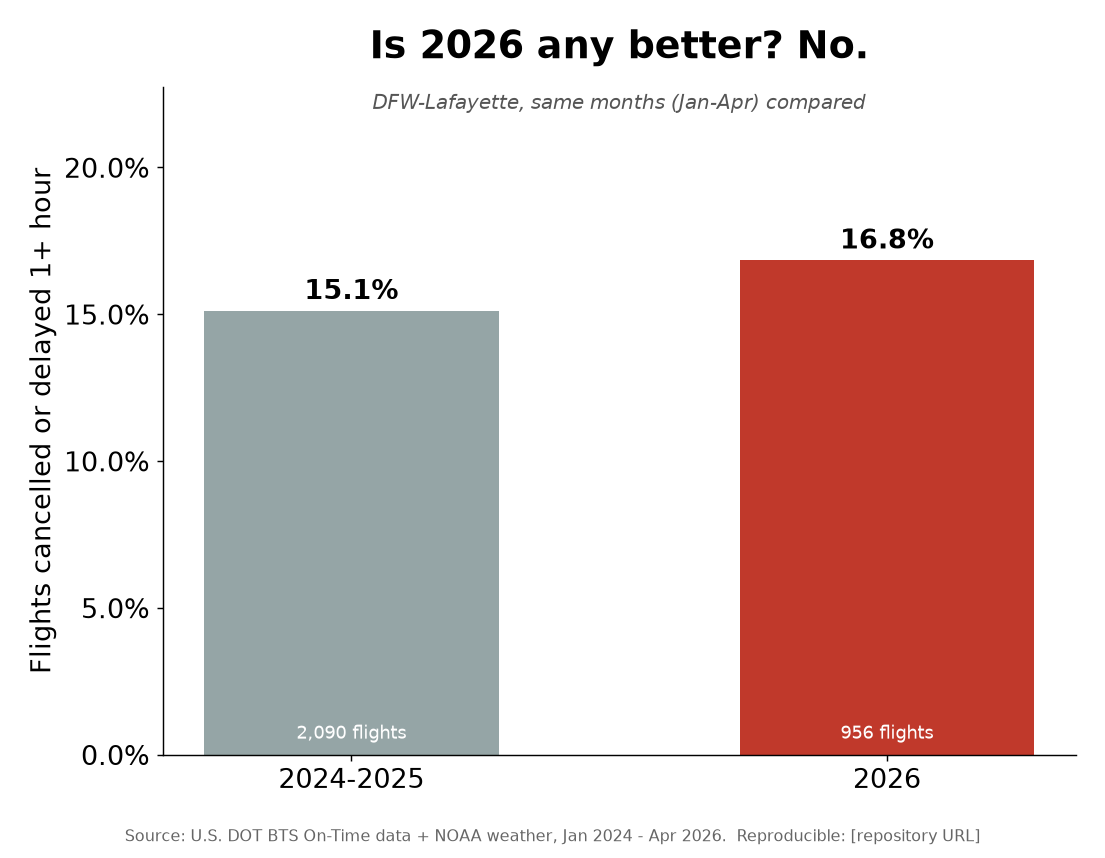
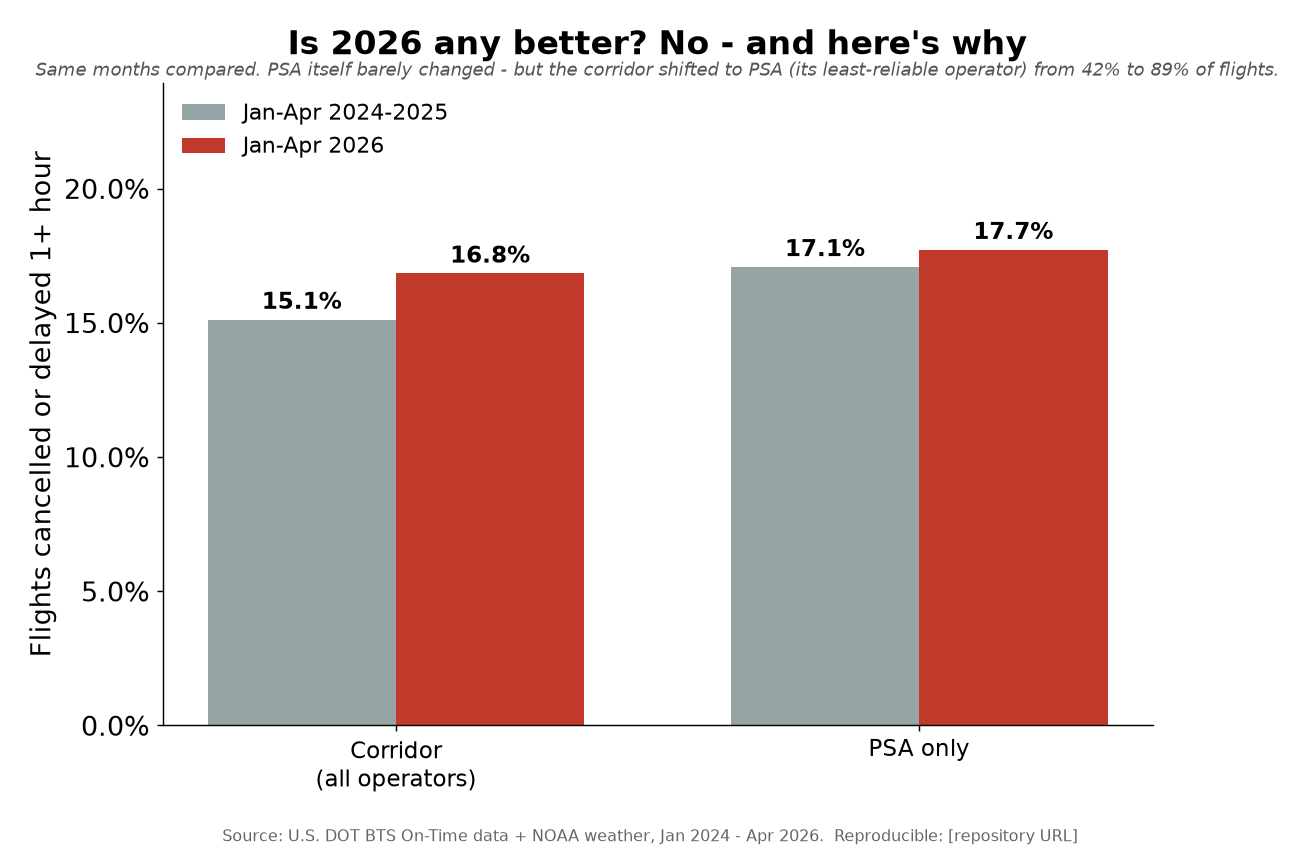
Fix A1 conflation; add A1b weather-sensitivity; clarify A3 operator mix
Review caught A1 conflating two different facts (annotation claimed Envoy
"degrades most" while bars showed PSA highest in bad weather). Resolved:

- A1: now absolute only - "PSA is the least reliable in any weather" (matches the
  bars; PSA highest in every weather bucket). Contradictory annotation removed.
- A1b (new): weather-sensitivity dumbbell - good->bad endpoints plus each
  operator's own multiplier (Envoy x4.3, SkyWest x3.3, PSA x2.5). Shows both
  facts honestly: PSA worst in absolute terms; Envoy swings most from a low base.
- A3: now Corridor vs PSA-only, season-matched. PSA itself ~flat (17.1->17.7%);
  corridor worsened (15.1->16.8%) mainly because it shifted to PSA from 42% to
  89% of flights. Attributes the change to operator mix, not a single decline.

Focal report 2026 section and chart specs/guide updated to match.

Changed region(s): [[0.0, 0.0303, 0.9846, 0.9394], [0.1231, 0.9697, 0.8923, 1.0]]

diff --git a/flight-fragility-poc/scripts/45_plot_exec_storyline.py b/flight-fragility-poc/scripts/45_plot_exec_storyline.py
@@ -83,16 +83,56 @@ def chart_A1():
     ax.set_xticks(x); ax.set_xticklabels([WX_LABEL[b] for b in wx])
     ax.yaxis.set_major_formatter(PercentFormatter(1.0))
     ax.set_ylabel("Flights cancelled or delayed 1+ hour")
-    ax.set_title("When the weather turns, the DFW-Lafayette schedule breaks", pad=16, fontsize=18)
+    ax.set_title("On DFW-Lafayette, PSA is the least reliable in any weather", pad=16, fontsize=18)
     ax.legend(loc="upper left", frameon=False, fontsize=12)
     ax.set_ylim(0, max(0.45, ax.get_ylim()[1]))
-    ax.annotate("Envoy degrades most\nin bad weather (~4x)", xy=(2.0,0.30), xytext=(1.05,0.40),
-                fontsize=11, color=C_ENVOY, ha="center",
-                arrowprops=dict(arrowstyle="->",color=C_ENVOY))
-    ax.text(0.99,0.97,"DFW-Lafayette, 2024-2025", transform=ax.transAxes, ha="right", va="top",
-            fontsize=11, style="italic", color="#555")
+    ax.text(0.5,1.005,"Share of flights cancelled or delayed 1+ hour, by weather condition (2024-2025).  "
+            "Bad weather makes every operator 2-4x worse.",
+            transform=ax.transAxes, ha="center", va="bottom", fontsize=10.5, style="italic", color="#555")
     footer(fig); fig.tight_layout(rect=[0,0.04,1,1])
     fig.savefig(OUT/"A1_weather_breaks_schedule.png"); plt.close(fig)
+
+
+def chart_A1b():
+    """Weather sensitivity, shown honestly: absolute good->bad endpoints (dumbbell)
+    plus each operator's own multiplier. Resolves the A1 confusion: PSA is worst in
+    absolute terms in any weather; Envoy's relative swing is largest only because its
+    good-weather baseline is the lowest."""
+    df = con.sql(f"""
+      WITH t AS (SELECT operator_class, weather_bucket, {disruption_expr()} r
+        FROM read_parquet('{CARVE}', hive_partitioning=1)
+        WHERE hub_family='DFW' AND (origin='LFT' OR dest='LFT') AND period_flag='baseline'
+          AND weather_bucket IN ('benign','adverse')
+          AND operator_class IN ('PSA_operated','Envoy_operated','SkyWest_unresolved') GROUP BY 1,2)
+      SELECT operator_class,
+        max(CASE WHEN weather_bucket='benign' THEN r END) good,
+        max(CASE WHEN weather_bucket='adverse' THEN r END) bad
+      FROM t GROUP BY 1
+    """).df()
+    df["mult"]=df["bad"]/df["good"]
+    df=df.sort_values("mult", ascending=True).reset_index(drop=True)  # bottom-up; biggest swing on top
+    fig, ax = plt.subplots(figsize=(12,6.2))
+    import numpy as np
+    for i,row in df.iterrows():
+        ax.plot([row.good,row.bad],[i,i], color="#BBB", lw=4, zorder=1)
+        ax.scatter([row.good],[i], s=240, color=C_FLT, zorder=2, edgecolor="white")
+        ax.scatter([row.bad],[i], s=240, color=C_BAD, zorder=2, edgecolor="white")
+        ax.text(row.good-0.012, i, f"{row.good*100:.0f}%", va="center", ha="right", fontsize=12, color="#555")
+        ax.text(row.bad+0.012, i, f"{row.bad*100:.0f}%", va="center", ha="left", fontsize=12, fontweight="bold", color=C_BAD)
+        ax.text(0.445, i, f"x{row.mult:.1f}", va="center", ha="left", fontsize=13, fontweight="bold", color="#333")
+    ax.set_yticks(range(len(df))); ax.set_yticklabels([OP_LABEL[o].replace("\n"," ") for o in df.operator_class], fontsize=13)
+    ax.set_xlim(0,0.50); ax.set_ylim(-0.6,len(df)-0.4)
+    ax.xaxis.set_major_formatter(PercentFormatter(1.0))
+    ax.set_xlabel("Flights cancelled or delayed 1+ hour")
+    ax.set_title("Weather hits every operator hard - Envoy's reliability swings the most", pad=22, fontsize=17)
+    # legend dots
+    ax.scatter([],[],s=180,color=C_FLT,label="Good weather"); ax.scatter([],[],s=180,color=C_BAD,label="Bad weather")
+    ax.legend(loc="lower right", frameon=False, fontsize=12)
+    ax.text(0.5,1.012,"Dots = absolute rates.  \"x\" = bad-weather rate / the same operator's good-weather rate "
+            "(PSA worst in any weather; Envoy swings most from a low base).",
+            transform=ax.transAxes, ha="center", va="bottom", fontsize=9.5, style="italic", color="#555")
+    footer(fig); fig.tight_layout(rect=[0,0.04,1,1])
+    fig.savefig(OUT/"A1b_weather_sensitivity.png"); plt.close(fig)
 
 
 def chart_A2():
@@ -124,27 +164,32 @@ def chart_A2():
 
 
 def chart_A3():
-    df = con.sql(f"""
-      SELECT CASE WHEN year(flight_date)=2026 THEN '2026' ELSE '2024-2025' END season,
-             {disruption_expr()} rate, count(*) n
-      FROM read_parquet('{CARVE}', hive_partitioning=1)
-      WHERE hub_family='DFW' AND (origin='LFT' OR dest='LFT')
-        AND month(flight_date) BETWEEN 1 AND 4
-      GROUP BY 1
-    """).df().set_index("season")
-    order=["2024-2025","2026"]
-    vals=[float(df.loc[s,"rate"]) for s in order]; ns=[int(df.loc[s,"n"]) for s in order]
-    fig, ax = plt.subplots(figsize=(8.5,6.6))
-    bars=ax.bar(order, vals, color=[C_PRIOR,C_NOW], width=0.55)
-    for b,v,nn in zip(bars,vals,ns):
-        ax.text(b.get_x()+b.get_width()/2, v+0.004, f"{v*100:.1f}%", ha="center", fontsize=15, fontweight="bold")
-        ax.text(b.get_x()+b.get_width()/2, 0.004, f"{nn:,} flights", ha="center", fontsize=10, color="white", va="bottom")
+    base=f"""FROM read_parquet('{CARVE}', hive_partitioning=1)
+      WHERE hub_family='DFW' AND (origin='LFT' OR dest='LFT') AND month(flight_date) BETWEEN 1 AND 4"""
+    yr="CASE WHEN year(flight_date)=2026 THEN '2026' ELSE '2024-2025' END"
+    corr = con.sql(f"SELECT {yr} s, {disruption_expr()} r, count(*) n {base} GROUP BY 1").df().set_index("s")
+    psa  = con.sql(f"SELECT {yr} s, {disruption_expr()} r, count(*) n {base} AND operator_class='PSA_operated' GROUP BY 1").df().set_index("s")
+    import numpy as np
+    cats=["Corridor\n(all operators)","PSA only"]
+    prior=[float(corr.loc['2024-2025','r']), float(psa.loc['2024-2025','r'])]
+    now  =[float(corr.loc['2026','r']),      float(psa.loc['2026','r'])]
+    x=np.arange(len(cats)); w=0.36
+    fig, ax = plt.subplots(figsize=(10,6.6))
+    b1=ax.bar(x-w/2, prior, w, label="Jan-Apr 2024-2025", color=C_PRIOR)
+    b2=ax.bar(x+w/2, now,   w, label="Jan-Apr 2026",      color=C_NOW)
+    for bars in (b1,b2):
+        for b in bars:
+            ax.text(b.get_x()+b.get_width()/2, b.get_height()+0.004, f"{b.get_height()*100:.1f}%",
+                    ha="center", fontsize=13, fontweight="bold")
+    ax.set_xticks(x); ax.set_xticklabels(cats, fontsize=13)
     ax.yaxis.set_major_formatter(PercentFormatter(1.0))
     ax.set_ylabel("Flights cancelled or delayed 1+ hour")
-    ax.set_title("Is 2026 any better? No.", pad=16)
-    ax.set_ylim(0, max(vals)*1.35)
-    ax.text(0.5,0.99,"DFW-Lafayette, same months (Jan-Apr) compared",
-            transform=ax.transAxes, ha="center", va="top", fontsize=11, style="italic", color="#555")
+    ax.set_title("Is 2026 any better? No - and here's why", pad=16, fontsize=18)
+    ax.set_ylim(0, max(now+prior)*1.35)
+    ax.legend(loc="upper left", frameon=False, fontsize=12)
+    ax.text(0.5,1.005,"Same months compared. PSA itself barely changed - but the corridor shifted to PSA "
+            "(its least-reliable operator) from 42% to 89% of flights.",
+            transform=ax.transAxes, ha="center", va="bottom", fontsize=10, style="italic", color="#555")
     footer(fig); fig.tight_layout(rect=[0,0.04,1,1])
     fig.savefig(OUT/"A3_is_2026_better.png"); plt.close(fig)
 
@@ -206,7 +251,7 @@ def chart_B2():
 
 
 if __name__ == "__main__":
-    chart_A1(); chart_A2(); chart_A3(); chart_B1(); chart_B2()
+    chart_A1(); chart_A1b(); chart_A2(); chart_A3(); chart_B1(); chart_B2()
     print("Rendered to", OUT)
     for p in sorted(OUT.glob("*.png")):
         print("  ", p.name, f"({p.stat().st_size//1024} KB)")

diff --git a/flight-fragility-poc/reports/DFW_LFT_FOCAL_REPORT.md b/flight-fragility-poc/reports/DFW_LFT_FOCAL_REPORT.md
@@ -74,12 +74,15 @@ To compare fairly, 2026 (January–April, partial year) is measured against the
 **same months** of 2024–2025 — removing the winter-weather bias that would
 otherwise inflate 2026.
 
-- **The corridor got modestly worse, season-matched.** DFW–LFT flights cancelled
-  or badly delayed: roughly flat-to-up, with **knock-on (late-inbound-aircraft)
-  delays rising ~39%**.
-- **PSA's bad-weather cancellations on DFW–LFT roughly doubled** (≈11% → ≈24%).
-  *Caveat: only ~51 adverse-weather flights in the 2026 window — directional, not
-  precise.*
+- **The corridor got worse — mainly because of who flies it now.** Corridor-wide
+  disruption rose 15.1% → 16.8% (season-matched). But **PSA on its own barely
+  changed** (17.1% → 17.7%): the corridor worsened chiefly because it **shifted to
+  PSA**, its least-reliable operator, from 42% to **89%** of flights. More of your
+  flights are now on the worst performer — that, more than any single operator
+  declining, is why the experience degraded.
+- **Knock-on (late-inbound-aircraft) delays rose ~39%** corridor-wide, and **PSA's
+  bad-weather cancellations roughly doubled** (≈11% → ≈24%). *Caveat: only ~51
+  adverse-weather PSA flights in the 2026 window — directional, not precise.*
 - **Network-wide, the pattern persisted** (see §4): PSA remained the worst-
   performing operator and worsened even season-matched; Envoy remained the best
   and stable.

diff --git a/flight-fragility-poc/reports/CHART_SPECS_DRAFT.md b/flight-fragility-poc/reports/CHART_SPECS_DRAFT.md
@@ -1,5 +1,13 @@
 # Executive Chart Specs — Plain-Language Redesign (DRAFT for approval)
 
+> **Render status (rendered to `output/exec/`):** A1 was split after review — A1 now
+> shows **absolute** disruption only ("PSA least reliable in any weather"), and a new
+> **A1b** isolates **weather sensitivity** (good→bad dumbbell + each operator's own
+> multiplier) so absolute level and relative swing are never conflated. A3 was
+> revised to show **Corridor vs PSA-only** side by side, attributing the corridor's
+> 2026 decline to the operator **mix shift** (42%→89% PSA) rather than a single
+> operator declining. Set is now A1, A1b, A2, A3, B1, B2.
+
 **Purpose.** Replace the current jargon-dense charts with a small set where
 **each chart carries exactly one sentence of meaning**, readable by a
 non-technical executive in under ten seconds. No data-science vocabulary appears

diff --git a/flight-fragility-poc/BIGRUN-FINDINGS-GUIDE.md b/flight-fragility-poc/BIGRUN-FINDINGS-GUIDE.md
@@ -280,7 +280,7 @@ prerequisite gating and a stable log symlink.
 
 | If you want… | Read |
 |---|---|
-| **Executive charts (the visual punch)** | **`output/exec/` — A1–A3 (corridor), B1–B2 (network)** |
+| **Executive charts (the visual punch)** | **`output/exec/` — A1 (absolute), A1b (weather sensitivity), A2–A3 (corridor), B1–B2 (network)** |
 | **The DFW–LFT single-corridor case study** | **[reports/DFW_LFT_FOCAL_REPORT.md](reports/DFW_LFT_FOCAL_REPORT.md)** |
 | The formal network write-up framing | [reports/FRAGILITY_NETWORK_REPORT_DRAFT.md](reports/FRAGILITY_NETWORK_REPORT_DRAFT.md) |
 | Plain-language exec chart specs (awaiting approval) | [reports/CHART_SPECS_DRAFT.md](reports/CHART_SPECS_DRAFT.md) |